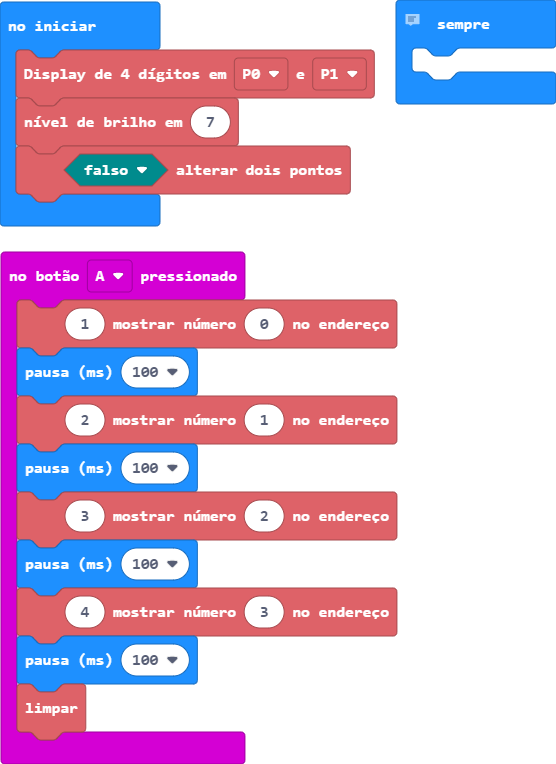
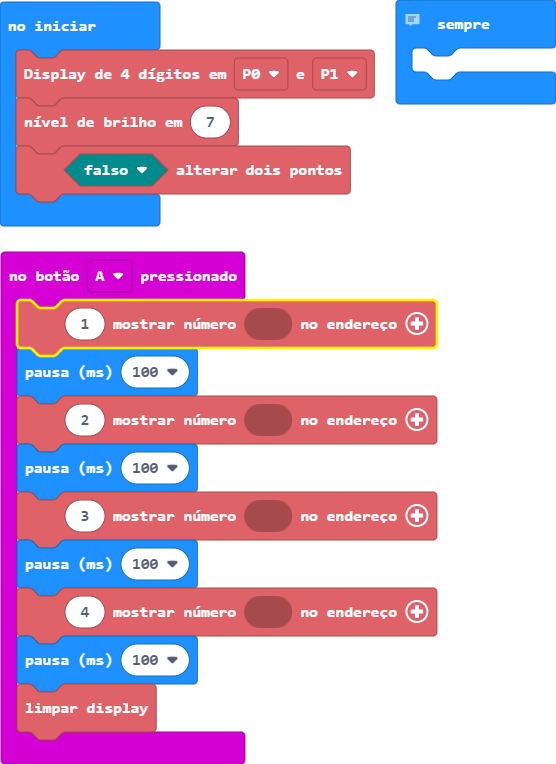
Update main.blocks, _locales/pt-BR/hackbit-strings.json, main.ts

diff --git a/main.ts b/main.ts
@@ -1,11 +1,11 @@
 input.onButtonPressed(Button.A, function () {
-    hackbit.digit_bit(1, 0)
+    hackbit.digit_bit(1, 1)
     basic.pause(100)
-    hackbit.digit_bit(2, 1)
+    hackbit.digit_bit(2, 2)
     basic.pause(100)
-    hackbit.digit_bit(3, 2)
+    hackbit.digit_bit(3, 3)
     basic.pause(100)
-    hackbit.digit_bit(4, 3)
+    hackbit.digit_bit(4, 4)
     basic.pause(100)
     hackbit.digit_clear()
 })
